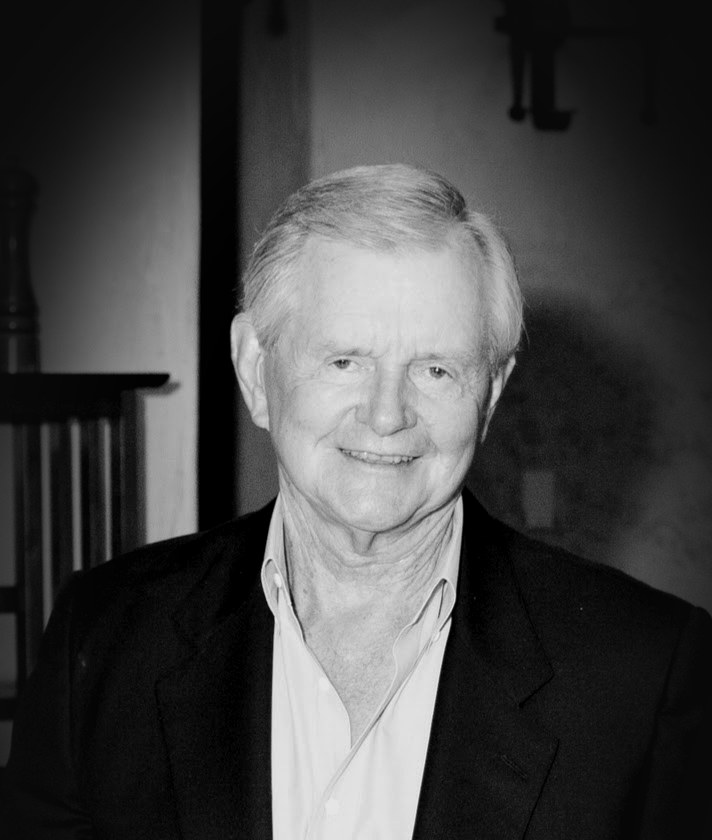
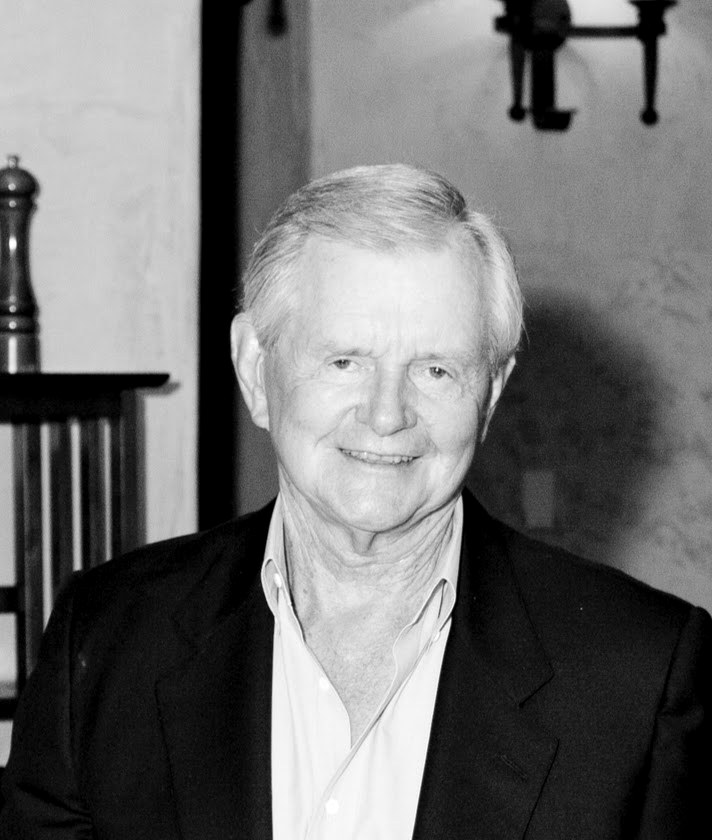
Portrait: drop the heavy halo (barely-there vignette), soft left and top edges

diff --git a/index.html b/index.html
@@ -40,8 +40,8 @@
   /* home: everything on one screen */
   #home.on{display:grid;grid-template-columns:minmax(0,1fr) minmax(0,1fr);min-height:100vh;position:relative}
   .portrait{position:absolute;top:0;bottom:0;left:max(0px,calc(58% - 100vh));width:min(58%,100vh);overflow:hidden;
-     -webkit-mask-image:linear-gradient(90deg,rgba(0,0,0,.3) 0%,#000 14%,#000 40%,rgba(0,0,0,.8) 52%,rgba(0,0,0,.55) 64%,rgba(0,0,0,.32) 76%,rgba(0,0,0,.14) 88%,transparent 100%);
-             mask-image:linear-gradient(90deg,rgba(0,0,0,.3) 0%,#000 14%,#000 40%,rgba(0,0,0,.8) 52%,rgba(0,0,0,.55) 64%,rgba(0,0,0,.32) 76%,rgba(0,0,0,.14) 88%,transparent 100%)}
+     -webkit-mask-image:linear-gradient(90deg,transparent 0%,rgba(0,0,0,.45) 7%,#000 20%,#000 40%,rgba(0,0,0,.8) 52%,rgba(0,0,0,.55) 64%,rgba(0,0,0,.32) 76%,rgba(0,0,0,.14) 88%,transparent 100%);
+             mask-image:linear-gradient(90deg,transparent 0%,rgba(0,0,0,.45) 7%,#000 20%,#000 40%,rgba(0,0,0,.8) 52%,rgba(0,0,0,.55) 64%,rgba(0,0,0,.32) 76%,rgba(0,0,0,.14) 88%,transparent 100%)}
   .portrait img{position:absolute;inset:0;width:100%;height:100%;object-fit:cover;object-position:50% 18%;filter:grayscale(1) contrast(1.06) brightness(.92)}
   .portrait::after{content:"";position:absolute;inset:0;background:linear-gradient(0deg,rgba(10,10,10,.6),rgba(10,10,10,0) 35%)}
   .info{grid-column:2;position:relative;z-index:1}
@@ -83,7 +83,7 @@
   #home .rule{display:block}
   .portrait{top:0 !important}
   .portrait img{object-position:50% 22% !important}
-  .portrait::after{background:linear-gradient(0deg,rgba(10,10,10,.5),rgba(10,10,10,0) 30%) !important}
+  .portrait::after{background:linear-gradient(180deg,rgba(10,10,10,.7),rgba(10,10,10,0) 16%),linear-gradient(0deg,rgba(10,10,10,.5),rgba(10,10,10,0) 30%) !important}
   @media (max-width:860px){
     #home.on{grid-template-columns:1fr;grid-template-rows:auto auto}
     .portrait{position:relative;width:auto;height:58vh;min-height:340px;
